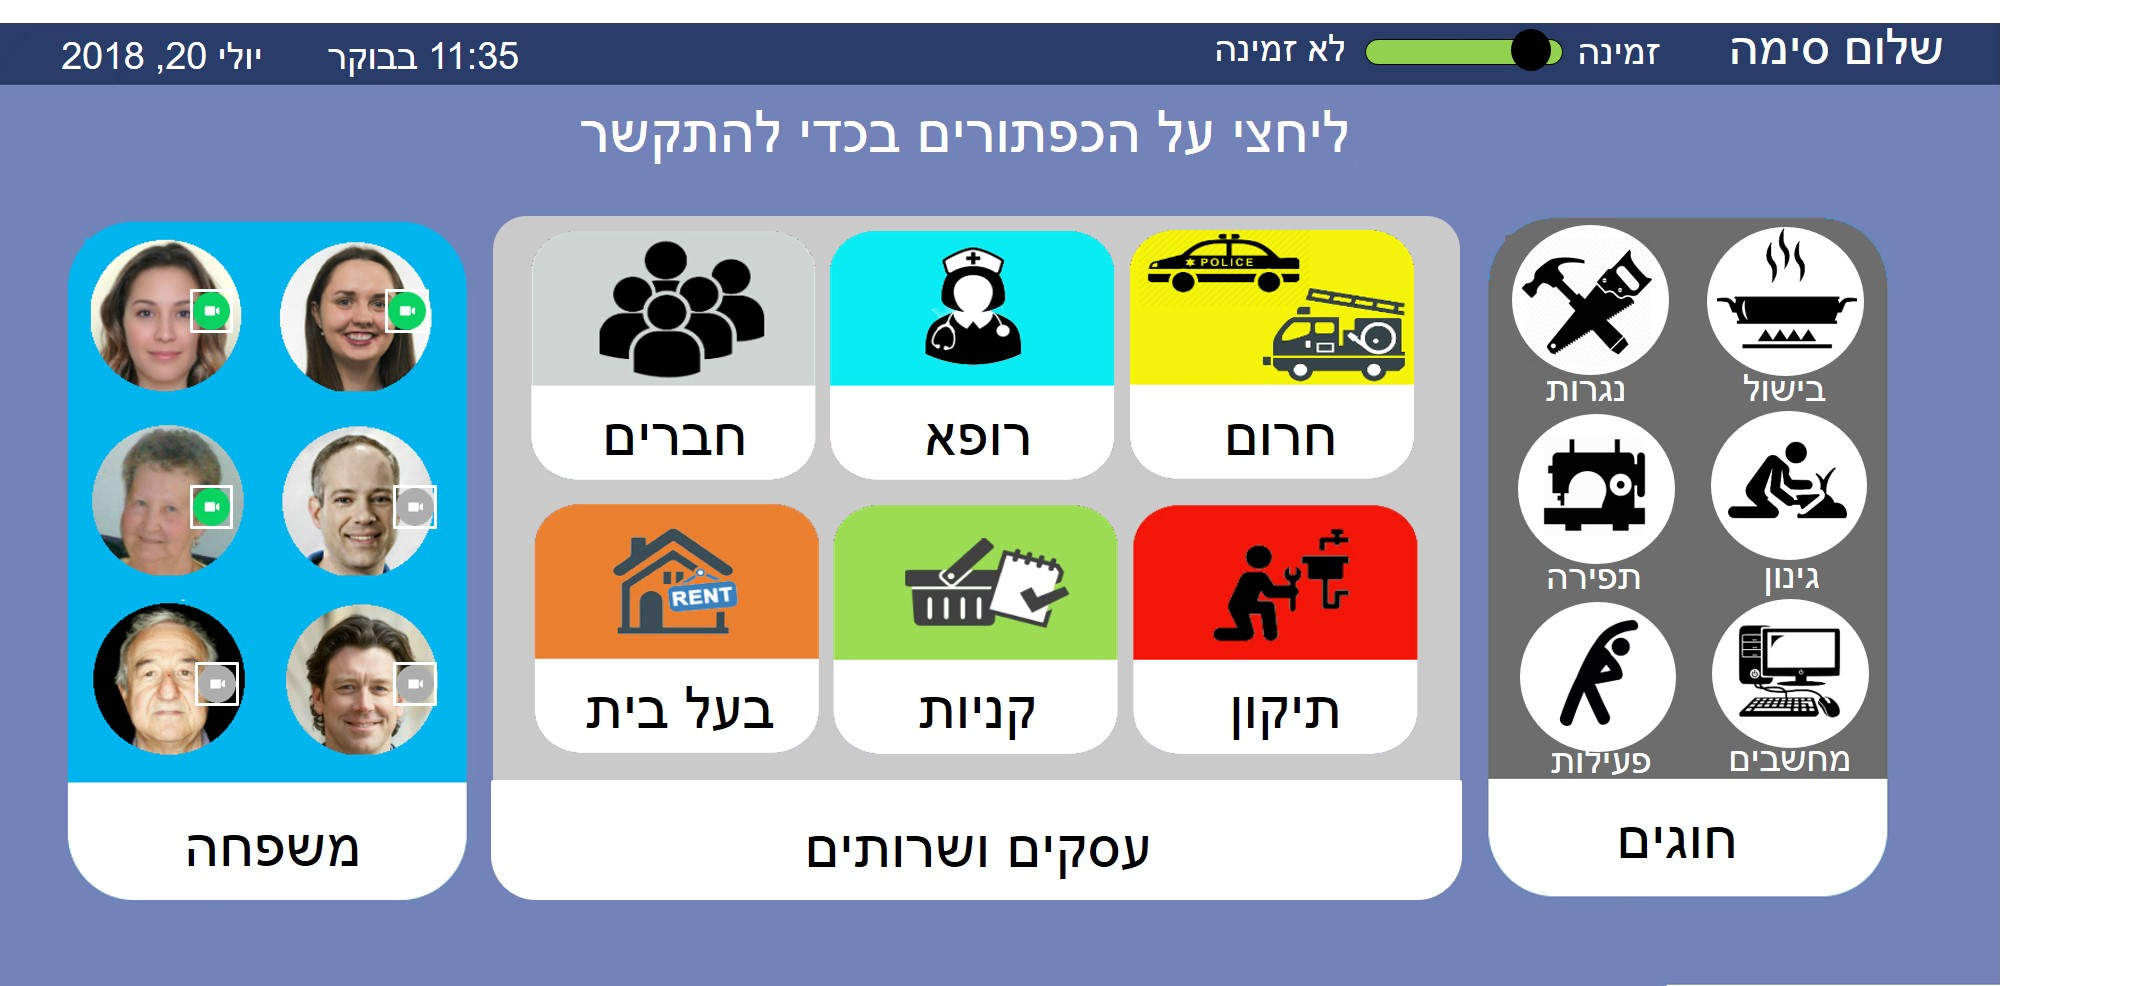
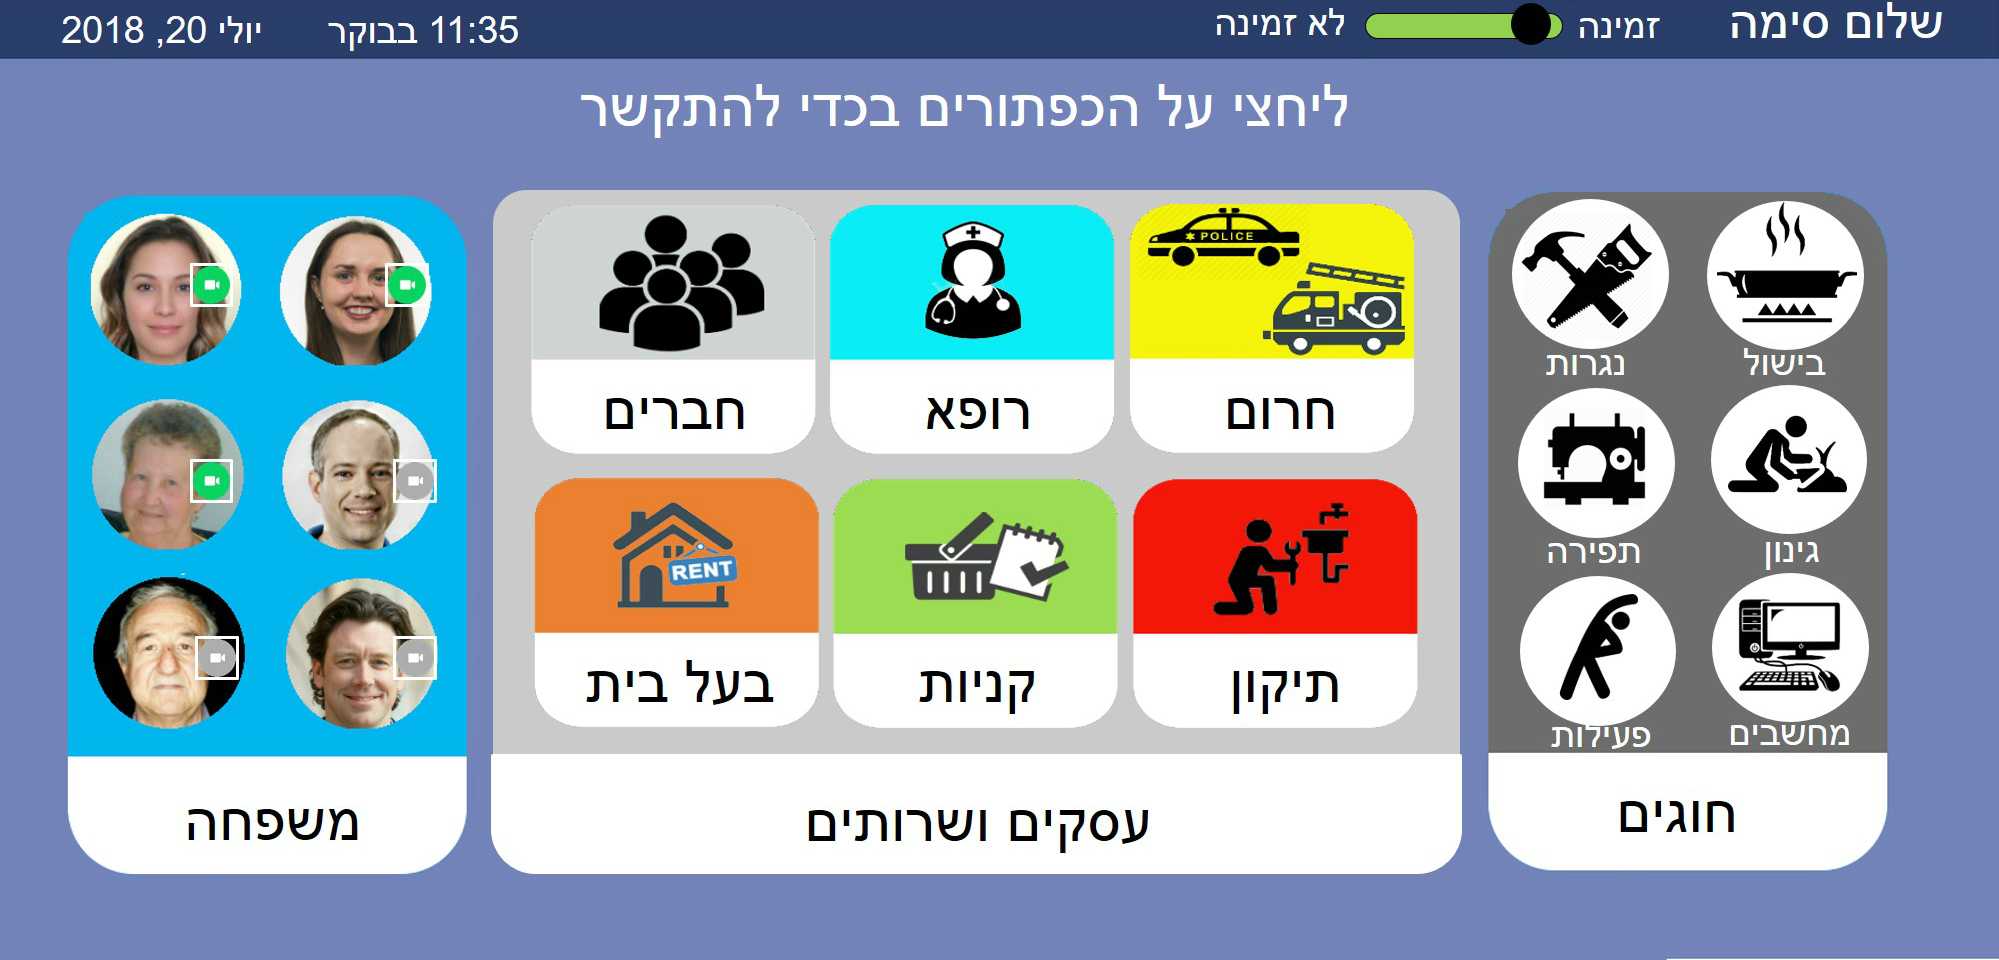
nadav gever gever

diff --git a/src/app/app.component.html b/src/app/app.component.html
@@ -1,5 +1,5 @@
-
 <!-- <button mat-raised-button color="primary" class="family">משפחה</button>
 <button mat-raised-button color="primary" class="friends">חברים</button>
 <button mat-raised-button color="primary" class="support">תמיכה טכנית</button> -->
 <img src="../assets/img.jpg" alt="">
+<div id="tiviclick_external"></div>

diff --git a/src/app/app.component.css b/src/app/app.component.css
@@ -22,7 +22,11 @@
 }
 
 img{
-    background: url("../assets/img.jpg")no-repeat center fixed;
+    background: url("/assets/img.jpg")no-repeat center fixed;
     height: 100%;
     width: 100%;
+}
+
+#tiviclick_external >  .tivivlick_header {
+    margin-right: 200px ; 
 }

diff --git a/src/index.html b/src/index.html
@@ -12,8 +12,7 @@
 </head>
 
 <body>
-    <div id="tiviclick_external"></div>
-
+    
     <script type="text/javascript" src="https://app.tiviclick.com/plugin/js/?account_id=1"></script>
     <app-root></app-root>
 </body>

diff --git a/src/styles.css b/src/styles.css
@@ -1,2 +1,6 @@
 /* You can add global styles to this file, and also import other style files */
 @import "~@angular/material/prebuilt-themes/indigo-pink.css";
+body{
+    padding: 0 ;
+    margin: 0 ; 
+}
